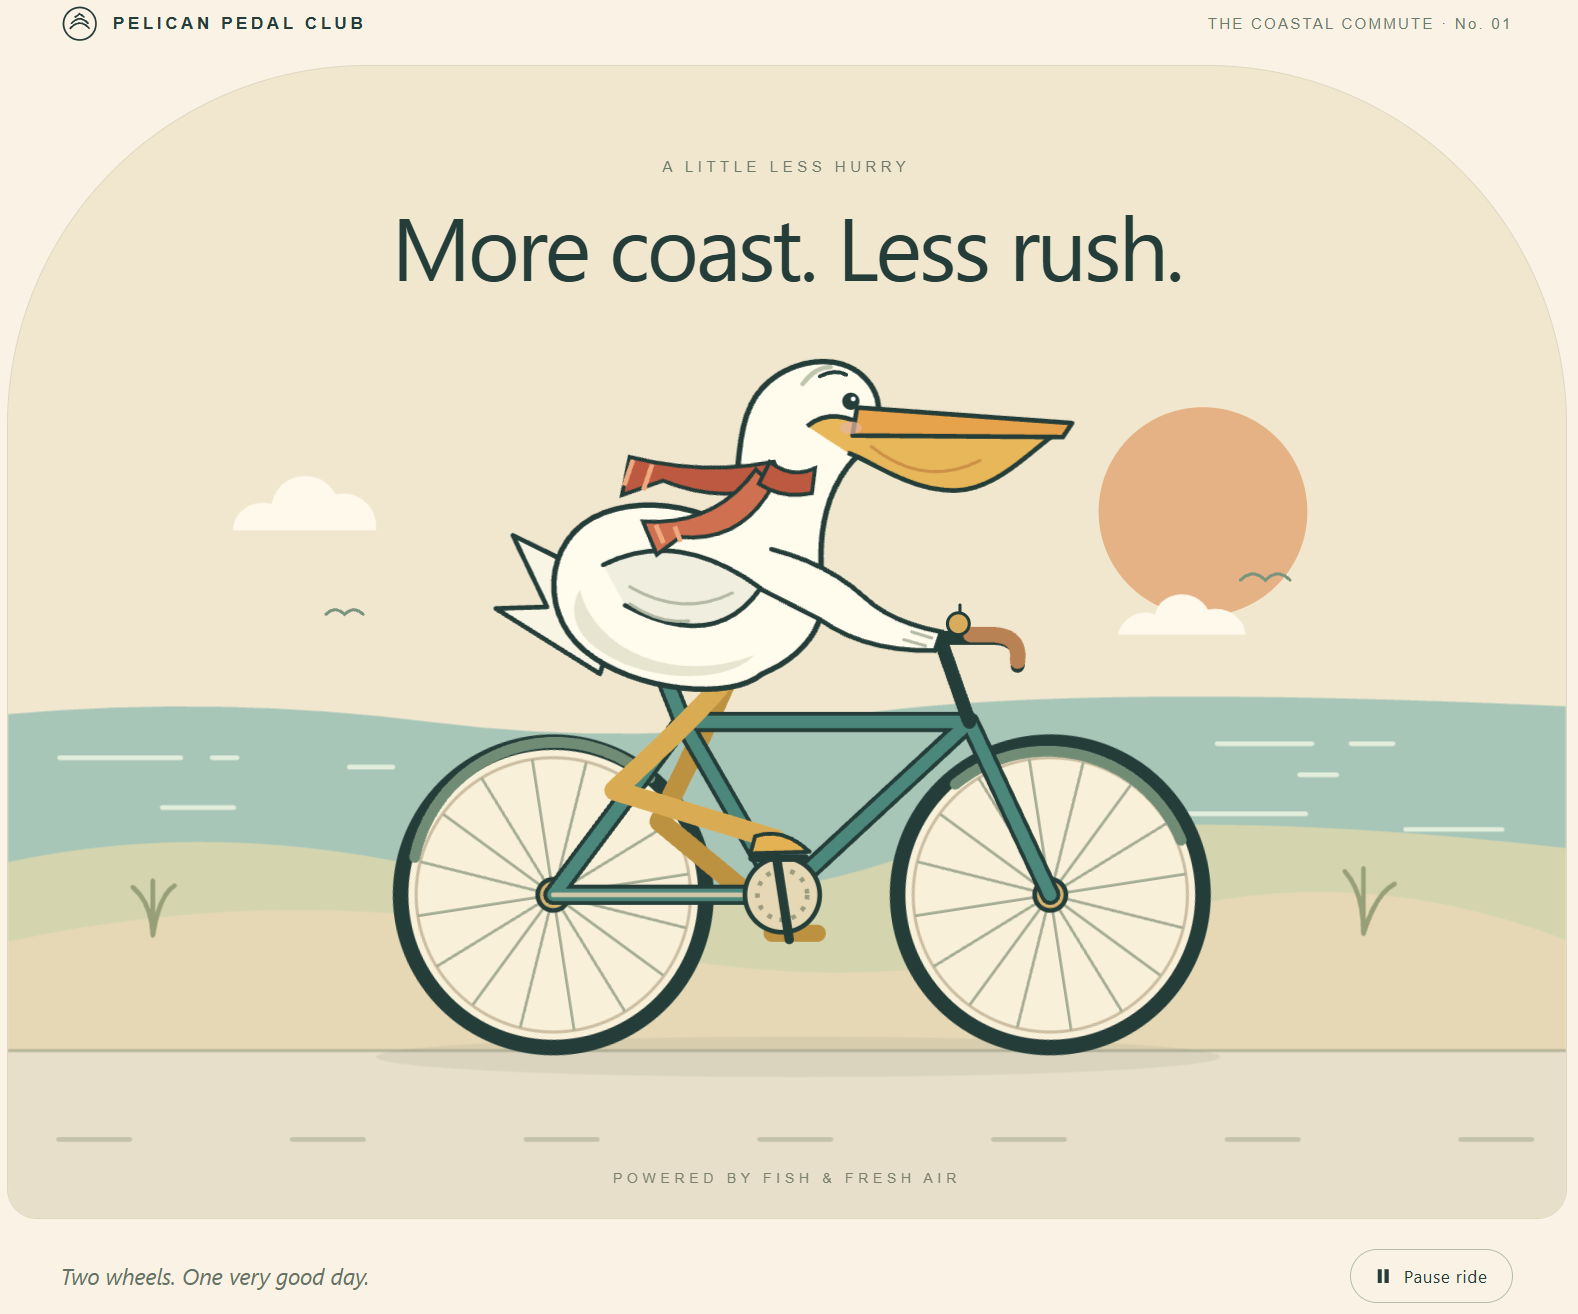
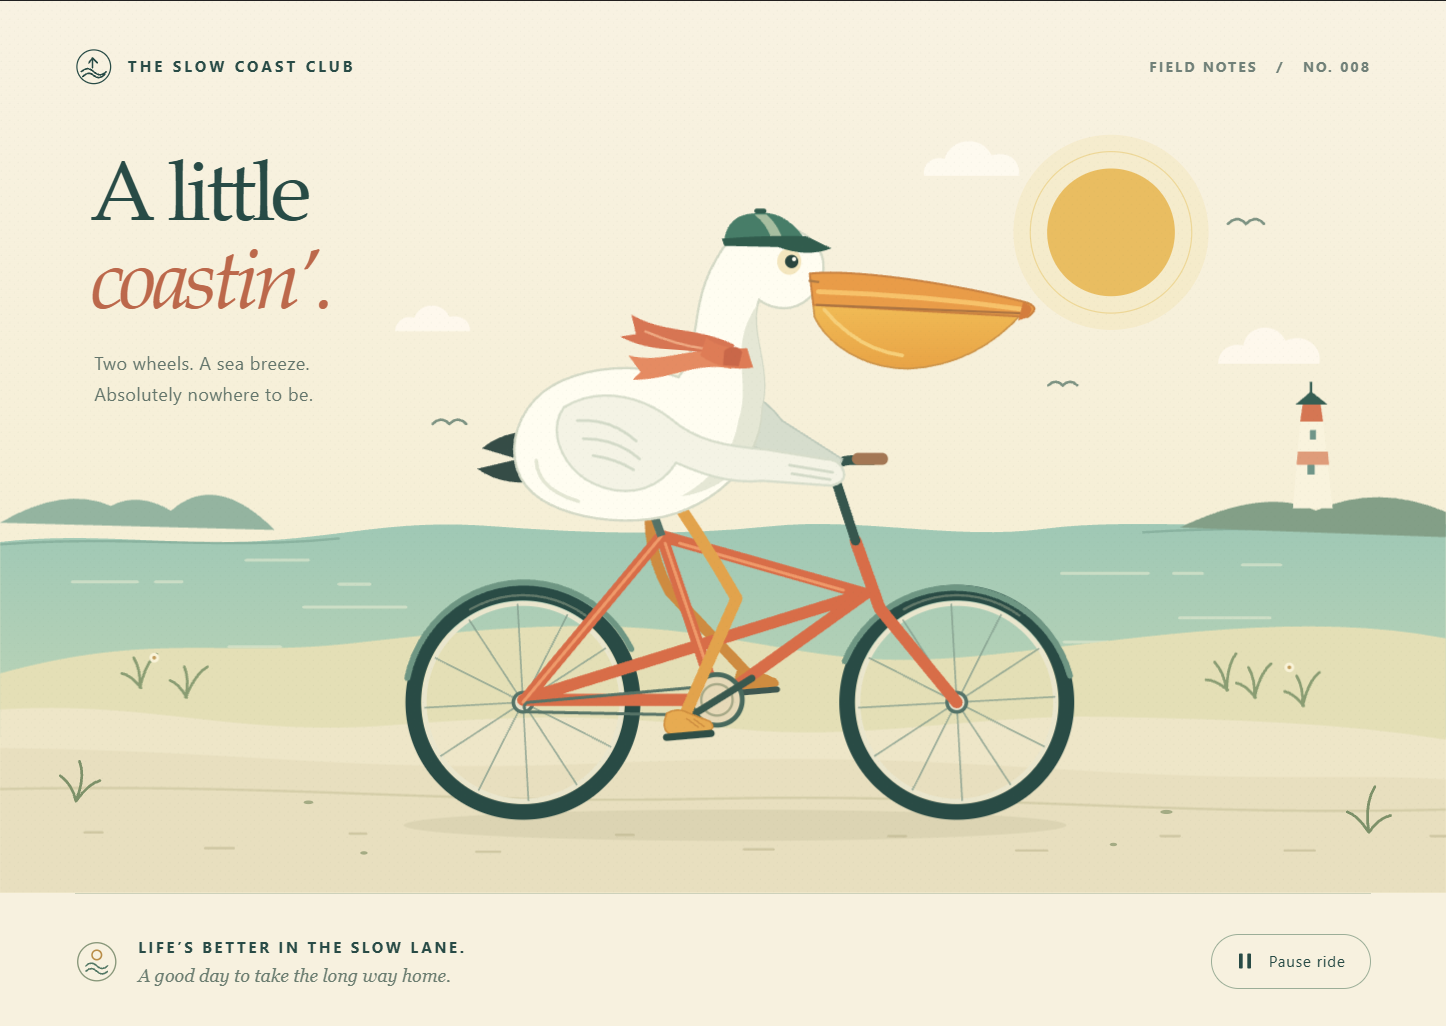
docs: replace the Cortex GPT-6.1 Sol pelican result

diff --git a/docs/zh/README.md b/docs/zh/README.md
@@ -127,7 +127,7 @@ Cortex 驱动编程智能体，而不是自己调用模型 API。PI 随服务端
   <tr><th colspan="2">GPT-6.1 Sol · xhigh effort</th></tr>
   <tr><td align="center">Cortex</td><td align="center">Codex</td></tr>
   <tr>
-    <td><img width="400" alt="Cortex + GPT-6.1 Sol：标题为“More coast. Less rush.”的 Pelican Pedal Club 页面，戴红围巾的鹈鹕在海边骑绿色自行车，带“Pause ride”按钮" src="https://raw.githubusercontent.com/fangxm233/cortex-agent/main/docs/images/ui/pelican-sol-cortex.png"></td>
+    <td><img width="400" alt="Cortex + GPT-6.1 Sol：标题为“A little coastin’.”的 Slow Coast Club 页面，戴绿帽子和红围巾的鹈鹕在海边骑橙色自行车，远处有灯塔，带“Pause ride”按钮" src="https://raw.githubusercontent.com/fangxm233/cortex-agent/main/docs/images/ui/pelican-sol-cortex.png"></td>
     <td><img width="400" alt="Codex + GPT-6.1 Sol：标题为“Taking the scenic route.”的页面，戴绿围巾的鹈鹕在海边骑绿色自行车" src="https://raw.githubusercontent.com/fangxm233/cortex-agent/main/docs/images/ui/pelican-sol-codex.png"></td>
   </tr>
   <tr><th colspan="2">GPT-6 Astra · xhigh effort</th></tr>

diff --git a/README.md b/README.md
@@ -185,7 +185,7 @@ effort in Cortex and in that model's own app.
   <tr><th colspan="2">GPT-6.1 Sol · xhigh effort</th></tr>
   <tr><td align="center">Cortex</td><td align="center">Codex</td></tr>
   <tr>
-    <td><img width="400" alt="Cortex with GPT-6.1 Sol: a 'Pelican Pedal Club' page headed 'More coast. Less rush.', a pelican in a red scarf riding a green bicycle by the sea, with a Pause ride button" src="https://raw.githubusercontent.com/fangxm233/cortex-agent/main/docs/images/ui/pelican-sol-cortex.png"></td>
+    <td><img width="400" alt="Cortex with GPT-6.1 Sol: a 'Slow Coast Club' page headed 'A little coastin'.', a pelican in a green cap and red scarf riding an orange bicycle by the sea, with a lighthouse and a Pause ride button" src="https://raw.githubusercontent.com/fangxm233/cortex-agent/main/docs/images/ui/pelican-sol-cortex.png"></td>
     <td><img width="400" alt="Codex with GPT-6.1 Sol: a page headed 'Taking the scenic route.', a pelican in a green scarf riding a green bicycle by the sea" src="https://raw.githubusercontent.com/fangxm233/cortex-agent/main/docs/images/ui/pelican-sol-codex.png"></td>
   </tr>
   <tr><th colspan="2">GPT-6 Astra · xhigh effort</th></tr>
